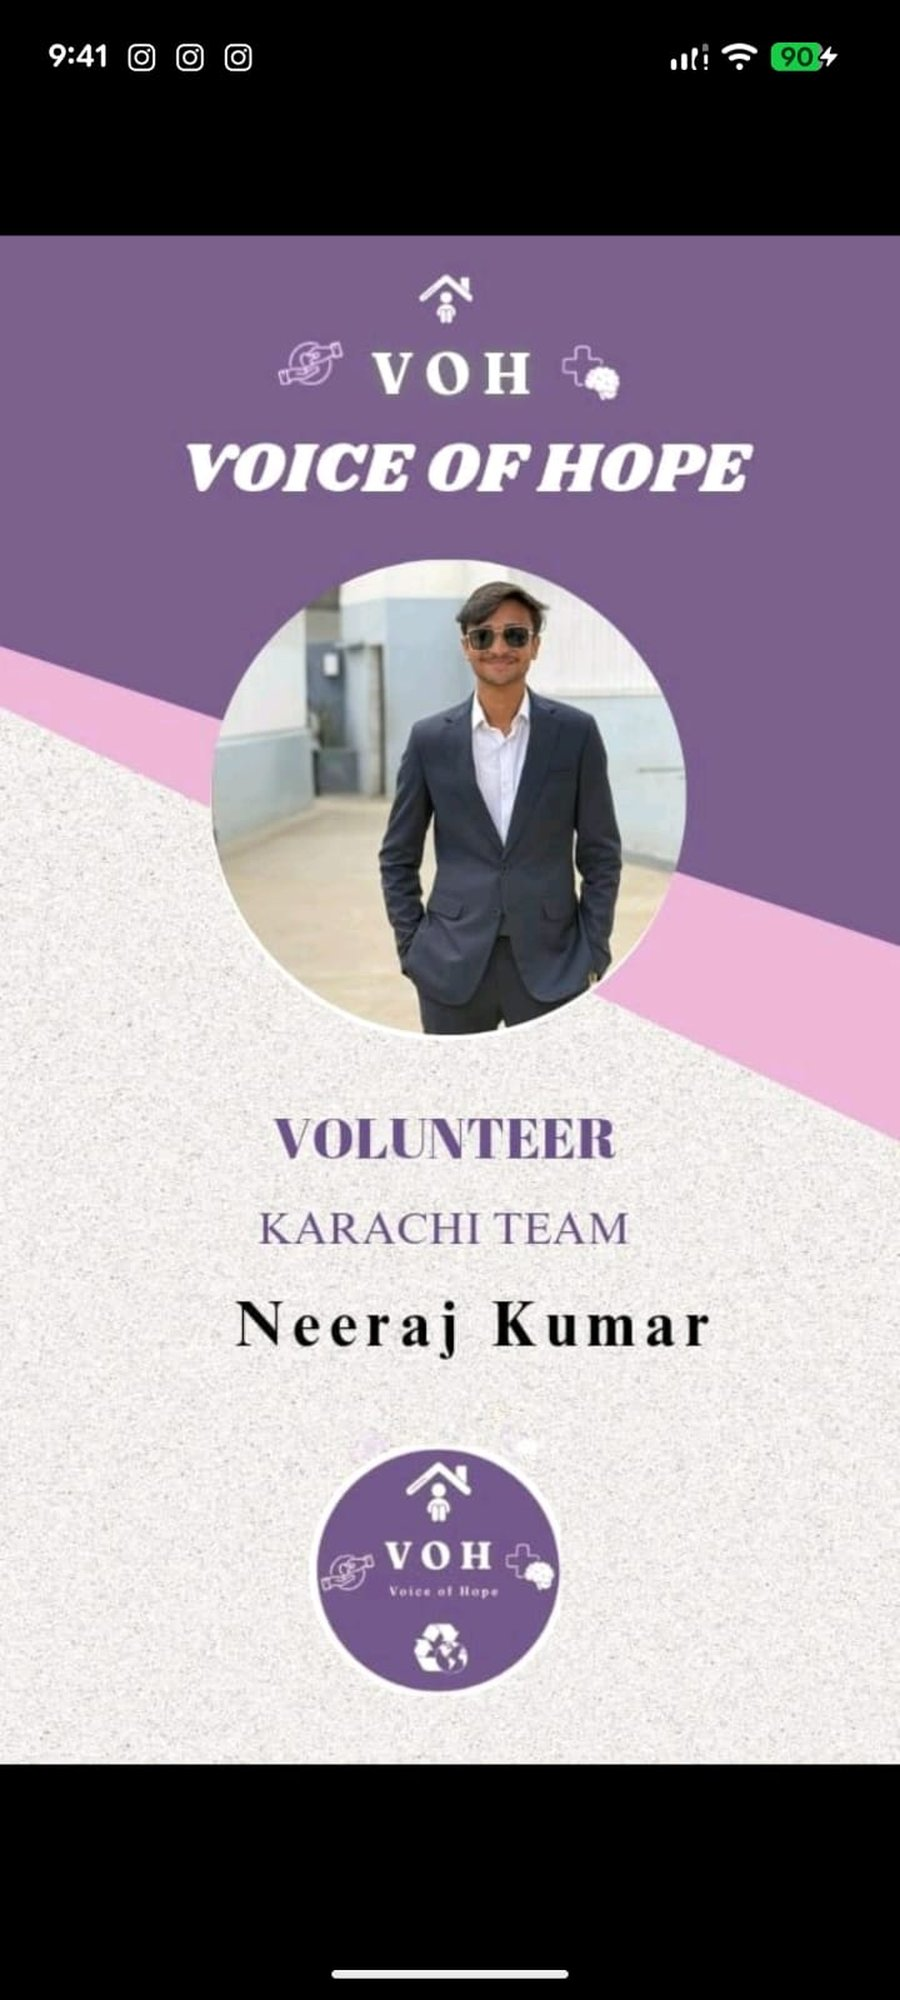
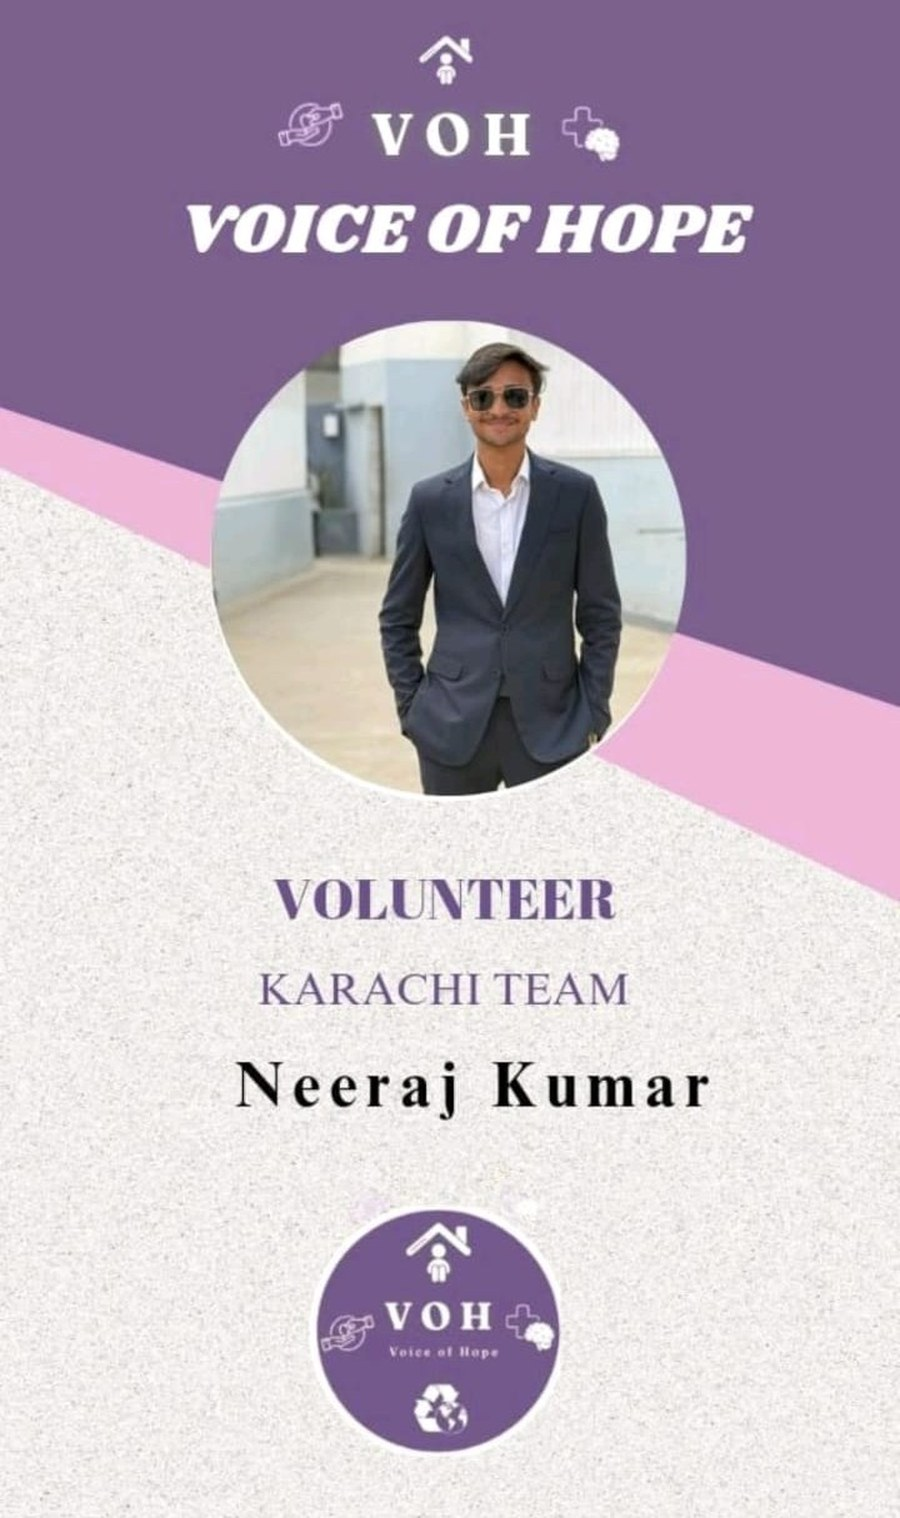
Fix lightbox overflow bug
- Fix lightbox: tall/portrait certificates were overflowing past the
  viewport with no way to scroll; images now scale to fit (max-height
  86vh, object-fit contain) regardless of aspect ratio
- Replace Builders Hub offer letter with cleaner scan
- Replace Voice of Hope volunteer card with cleaner version

diff --git a/style.css b/style.css
@@ -473,8 +473,15 @@ body::before {
   display:none; align-items:center; justify-content:center; padding:2rem;
 }
 .lightbox.open { display:flex; }
-.lightbox-inner { position:relative; max-width:860px; width:100%; }
-.lightbox-inner img { width:100%; border-radius:var(--radius-md); box-shadow:0 0 60px rgba(45,224,250,.12); }
+.lightbox-inner {
+  position:relative; max-width:860px; width:100%;
+  max-height:90vh; display:flex; align-items:center; justify-content:center;
+}
+.lightbox-inner img {
+  max-width:100%; max-height:86vh; width:auto; height:auto;
+  object-fit:contain; display:block; margin:0 auto;
+  border-radius:var(--radius-md); box-shadow:0 0 60px rgba(45,224,250,.12);
+}
 .lightbox-inner iframe { width:100%; height:76vh; border-radius:var(--radius-md); border:none; }
 .lightbox-close {
   position:absolute; top:-2.6rem; right:0;
